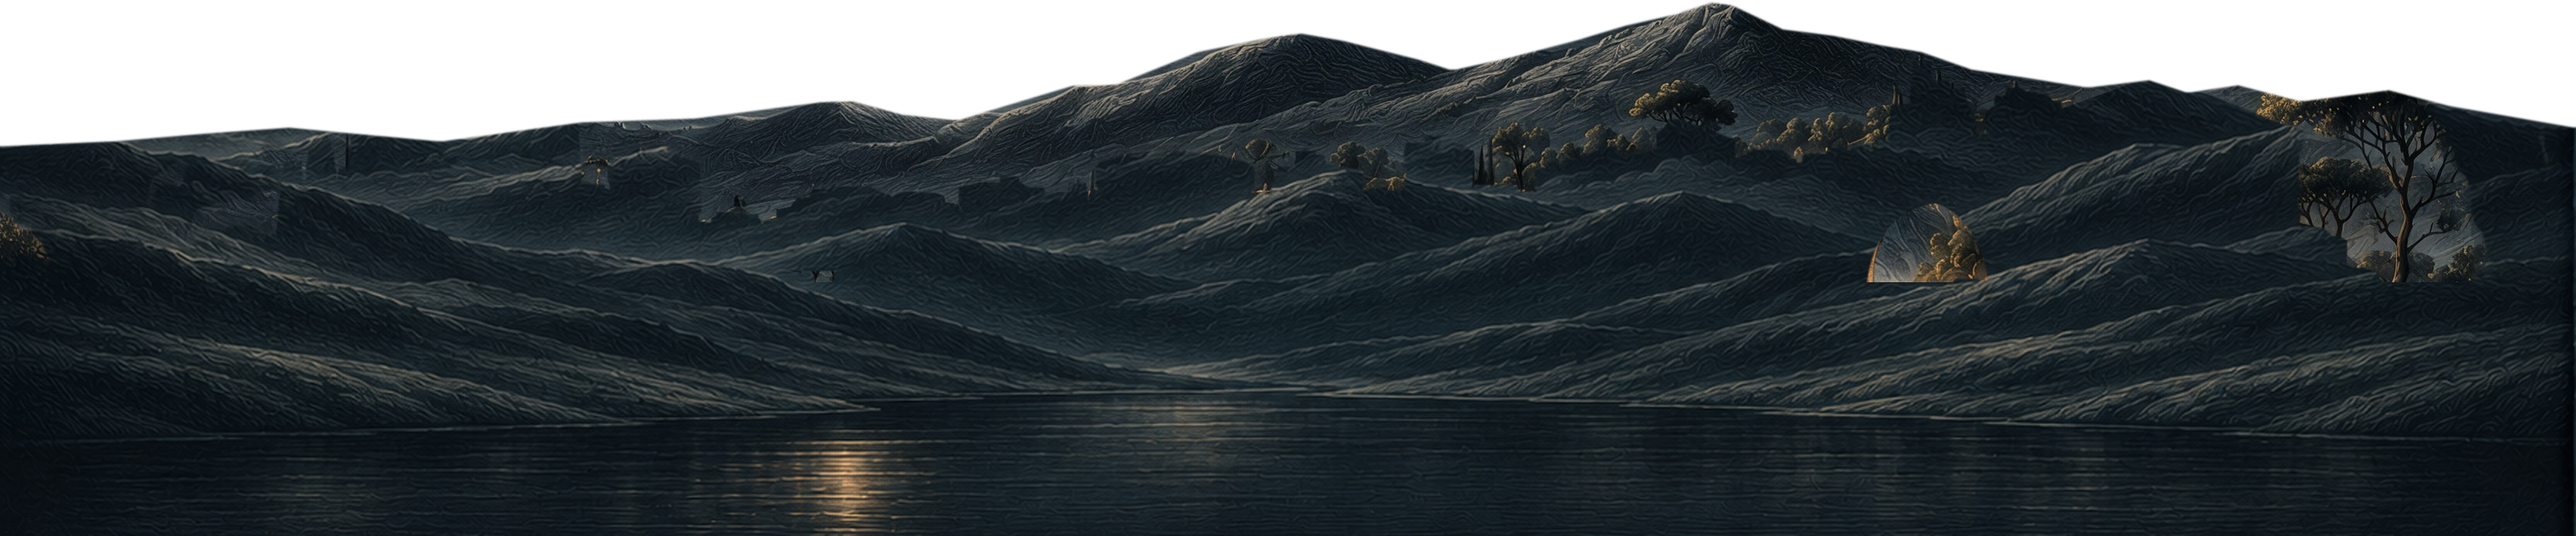
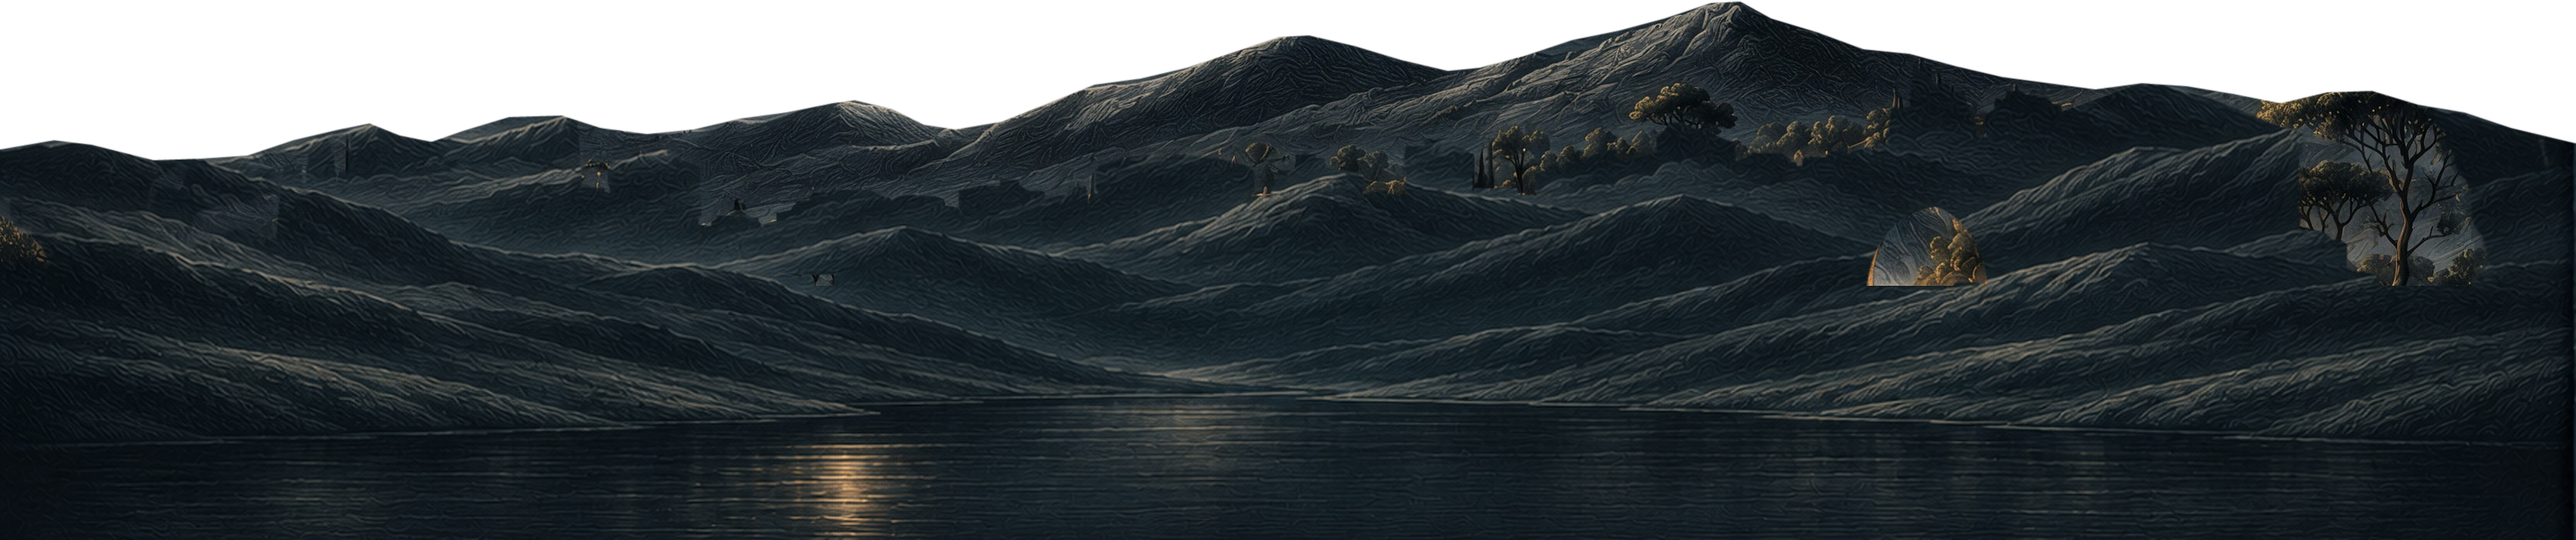
Separate near island, repair contours and deepen continuous camera transitions

diff --git a/world/index.html b/world/index.html
@@ -1,3 +1,3 @@
-<!doctype html><html lang="en" data-light="night"><head><script>(()=>{const compact=matchMedia('(max-width:760px)');function adapt(){if(compact.matches)location.replace(new URL('../'+location.hash,location.href).href);}adapt();compact.addEventListener('change',adapt);})();</script><meta charset="UTF-8"><meta name="viewport" content="width=device-width,initial-scale=1"><meta name="theme-color" content="#101619"><title>Alkymia — Immersive World Study</title><link rel="icon" href="../favicon.svg" type="image/svg+xml"><link rel="stylesheet" href="../style.css?v=layout-v2"><link rel="stylesheet" href="world.css?v=tree-edge-guard-v1"><script type="module" src="world.js?v=tree-edge-guard-v1"></script><link rel="canonical" href="https://mvisl.github.io/alkymia/world/"><script>(()=>{const address=new URL(location.href);if(address.searchParams.has('v')){address.searchParams.delete('v');history.replaceState(history.state,'',address.pathname+address.search+address.hash);}})();</script><link rel="stylesheet" href="intro.css?v=6"><script type="module" src="intro.js?v=6"></script><script type="module" src="depth.js?v=tree-edge-guard-v1"></script><link rel="stylesheet" href="depth.css?v=tree-edge-guard-v1"></head><body class="world-study"><section class="genesis" aria-label="The beginning of Alkymia"><button class="genesis-skip">Skip intro ↗</button><svg class="genesis-word" viewBox="0 0 450 52" role="img" aria-label="Alkymia"><use href="../assets/alkymia-wordmark.svg#wordmark"/></svg><button class="genesis-vessel" aria-label="Enter the world of Alkymia"><img src="../assets/intro-vessel.png" alt="A small glass alchemical vessel, filled with light"><span class="genesis-enter"><svg viewBox="0 0 721 52" aria-hidden="true"><use href="../assets/enter-the-world.svg#lettering"/></svg><span class="sr-only">Enter the world</span></span></button></section><button class="world-motion" aria-pressed="false" aria-label="Pause landscape motion">Pause motion</button><button class="genesis-replay" aria-label="Replay the introduction">The beginning ↺</button><a class="skip" href="#world-navigation">Skip to the places</a><header class="world-header"><a class="world-brand" href="../" aria-label="Alkymia home"><svg class="brand-mark" viewBox="0 0 450 52" aria-hidden="true" focusable="false"><use href="../assets/alkymia-wordmark.svg#wordmark"/></svg></a><a class="back-study" href="../">Original view ↗</a></header><div class="lighting-controls world-lighting" role="group" aria-label="Landscape lighting"><div class="lighting-track"><span class="lighting-indicator" aria-hidden="true"></span><button data-light-choice="day" aria-label="Day" title="Day" aria-pressed="false"><svg viewBox="0 0 24 24" aria-hidden="true"><circle cx="12" cy="12" r="4"/><path d="M12 2v2M12 20v2M2 12h2M20 12h2M4.9 4.9l1.4 1.4M17.7 17.7l1.4 1.4M19.1 4.9l-1.4 1.4M6.3 17.7l-1.4 1.4"/></svg><span class="light-tooltip" aria-hidden="true">Day</span></button><button data-light-choice="sunset" aria-label="Sunset" title="Sunset" aria-pressed="false"><svg viewBox="0 0 24 24" aria-hidden="true"><path d="M3 15.5h18M5 19h14M7 15a5 5 0 0 1 10 0M12 3v3M4.5 7.5l2 2M19.5 7.5l-2 2"/></svg><span class="light-tooltip" aria-hidden="true">Sunset</span></button><button data-light-choice="night" aria-label="Night" title="Night" aria-pressed="true"><svg viewBox="0 0 24 24" aria-hidden="true"><path d="M19.6 15.2A8 8 0 0 1 8.8 4.4 8.1 8.1 0 1 0 19.6 15.2Z"/><path class="star" d="M17.5 3v4M15.5 5h4"/></svg><span class="light-tooltip" aria-hidden="true">Night</span></button></div></div>
+<!doctype html><html lang="en" data-light="night"><head><script>(()=>{const compact=matchMedia('(max-width:760px)');function adapt(){if(compact.matches)location.replace(new URL('../'+location.hash,location.href).href);}adapt();compact.addEventListener('change',adapt);})();</script><meta charset="UTF-8"><meta name="viewport" content="width=device-width,initial-scale=1"><meta name="theme-color" content="#101619"><title>Alkymia — Immersive World Study</title><link rel="icon" href="../favicon.svg" type="image/svg+xml"><link rel="stylesheet" href="../style.css?v=layout-v2"><link rel="stylesheet" href="world.css?v=contour-depth-v5"><script type="module" src="world.js?v=contour-depth-v5"></script><link rel="canonical" href="https://mvisl.github.io/alkymia/world/"><script>(()=>{const address=new URL(location.href);if(address.searchParams.has('v')){address.searchParams.delete('v');history.replaceState(history.state,'',address.pathname+address.search+address.hash);}})();</script><link rel="stylesheet" href="intro.css?v=6"><script type="module" src="intro.js?v=6"></script><script type="module" src="depth.js?v=contour-depth-v5"></script><link rel="stylesheet" href="depth.css?v=contour-depth-v5"></head><body class="world-study"><section class="genesis" aria-label="The beginning of Alkymia"><button class="genesis-skip">Skip intro ↗</button><svg class="genesis-word" viewBox="0 0 450 52" role="img" aria-label="Alkymia"><use href="../assets/alkymia-wordmark.svg#wordmark"/></svg><button class="genesis-vessel" aria-label="Enter the world of Alkymia"><img src="../assets/intro-vessel.png" alt="A small glass alchemical vessel, filled with light"><span class="genesis-enter"><svg viewBox="0 0 721 52" aria-hidden="true"><use href="../assets/enter-the-world.svg#lettering"/></svg><span class="sr-only">Enter the world</span></span></button></section><button class="world-motion" aria-pressed="false" aria-label="Pause landscape motion">Pause motion</button><button class="genesis-replay" aria-label="Replay the introduction">The beginning ↺</button><a class="skip" href="#world-navigation">Skip to the places</a><header class="world-header"><a class="world-brand" href="../" aria-label="Alkymia home"><svg class="brand-mark" viewBox="0 0 450 52" aria-hidden="true" focusable="false"><use href="../assets/alkymia-wordmark.svg#wordmark"/></svg></a><a class="back-study" href="../">Original view ↗</a></header><div class="lighting-controls world-lighting" role="group" aria-label="Landscape lighting"><div class="lighting-track"><span class="lighting-indicator" aria-hidden="true"></span><button data-light-choice="day" aria-label="Day" title="Day" aria-pressed="false"><svg viewBox="0 0 24 24" aria-hidden="true"><circle cx="12" cy="12" r="4"/><path d="M12 2v2M12 20v2M2 12h2M20 12h2M4.9 4.9l1.4 1.4M17.7 17.7l1.4 1.4M19.1 4.9l-1.4 1.4M6.3 17.7l-1.4 1.4"/></svg><span class="light-tooltip" aria-hidden="true">Day</span></button><button data-light-choice="sunset" aria-label="Sunset" title="Sunset" aria-pressed="false"><svg viewBox="0 0 24 24" aria-hidden="true"><path d="M3 15.5h18M5 19h14M7 15a5 5 0 0 1 10 0M12 3v3M4.5 7.5l2 2M19.5 7.5l-2 2"/></svg><span class="light-tooltip" aria-hidden="true">Sunset</span></button><button data-light-choice="night" aria-label="Night" title="Night" aria-pressed="true"><svg viewBox="0 0 24 24" aria-hidden="true"><path d="M19.6 15.2A8 8 0 0 1 8.8 4.4 8.1 8.1 0 1 0 19.6 15.2Z"/><path class="star" d="M17.5 3v4M15.5 5h4"/></svg><span class="light-tooltip" aria-hidden="true">Night</span></button></div></div>
 <main><h1 class="sr-only">Explore the world of Alkymia</h1><div class="scene-shell"><div class="world-window" tabindex="0" aria-label="Panoramic landscape. Scroll horizontally or use the view arrows to explore."><div class="world-canvas"><svg viewBox="0 80 1672 435" preserveAspectRatio="none" role="img" aria-label="A living engraving of a river, tower, aquarium, palace and bridge"><image class="light-layer light-day" href="../assets/world-day.png" width="1672" height="941" preserveAspectRatio="none"/><image class="light-layer light-sunset" href="../assets/world-sunset.png" width="1672" height="941" preserveAspectRatio="none"/></svg><div class="depth-scene light-layer light-night" role="img" aria-label="The layered night landscape of Alkymia"><div class="depth-plane" data-plane="base"><img src="layers/base.webp" alt="" width="3344" height="870" decoding="async" draggable="false" style="left:0.0000000%;top:0.0000000%;width:100.0000000%;height:100.0000000%"></div><div class="depth-plane" data-plane="sky"><img src="layers/sky.webp" alt="" width="3344" height="240" decoding="async" draggable="false" style="left:0.0000000%;top:0.0000000%;width:100.0000000%;height:27.5862069%"></div><div class="depth-plane" data-plane="city"><img src="layers/city.webp" alt="" width="3344" height="870" decoding="async" draggable="false" style="left:0.0000000%;top:0.0000000%;width:100.0000000%;height:100.0000000%"></div><div class="depth-plane" data-plane="water"><img src="layers/water.webp" alt="" width="1760" height="148" decoding="async" draggable="false" style="left:33.1937799%;top:82.9885057%;width:52.6315789%;height:17.0114943%"></div><div class="depth-plane" data-plane="landmarks"><img src="layers/landmarks.webp" alt="" width="3210" height="870" decoding="async" draggable="false" style="left:0.0000000%;top:0.0000000%;width:95.9928230%;height:100.0000000%"></div><div class="depth-plane" data-plane="left-bank"><img src="layers/left-bank.webp" alt="" width="2550" height="862" decoding="async" draggable="false" style="left:5.9808612%;top:0.9195402%;width:76.2559809%;height:99.0804598%"></div><div class="depth-plane" data-plane="right-bank"><img src="layers/right-bank.webp" alt="" width="2564" height="860" decoding="async" draggable="false" style="left:18.7799043%;top:1.1494253%;width:76.6746411%;height:98.8505747%"></div><div class="depth-plane" data-plane="left-tree"><img src="layers/left-tree.webp" alt="" width="486" height="870" decoding="async" draggable="false" style="left:0.0000000%;top:0.0000000%;width:14.5334928%;height:100.0000000%"></div><div class="depth-plane" data-plane="right-tree"><img src="layers/right-tree.webp" alt="" width="3004" height="870" decoding="async" draggable="false" style="left:10.1674641%;top:0.0000000%;width:89.8325359%;height:100.0000000%"></div></div><svg class="world-dimmer" viewBox="0 80 1672 435" preserveAspectRatio="none" aria-hidden="true"><defs><filter id="focus-soften" x="-10%" y="-10%" width="120%" height="120%"><feGaussianBlur stdDeviation="4"/></filter><mask id="focus-cutout" maskUnits="userSpaceOnUse" x="0" y="80" width="1672" height="435"><rect x="0" y="80" width="1672" height="435" fill="white"/><path id="focus-silhouette" fill="black" fill-rule="evenodd" filter="url(#focus-soften)"/></mask></defs><rect x="0" y="80" width="1672" height="435" fill="var(--surround)" mask="url(#focus-cutout)"/></svg><div id="world-landmarks"></div></div></div></div><div class="pan-controls"><button data-pan="-1" aria-label="Explore to the left">←</button><p>Drag to explore <span>·</span> Select a landmark</p><button data-pan="1" aria-label="Explore to the right">→</button></div><nav id="world-navigation" aria-label="The five places"></nav></main><dialog id="space-dialog" aria-labelledby="space-title"><div class="dialog-shell"><button class="close" aria-label="Close this space">Close <span aria-hidden="true">×</span></button><div id="space-content"></div><nav class="space-navigation" aria-label="Other places"></nav></div></dialog>
 </body></html>

diff --git a/world/world.js b/world/world.js
@@ -1,7 +1,6 @@
 import {spaces} from '../scene.js';
-import {cycle} from './camera-geometry.mjs?v=tree-edge-guard-v1';
 // Canonical panorama coordinates drive HTML navigation and the night renderer.
-// Native input, automatic drift and focus flights share one camera.
+// Native input and focus flights share one camera; ambient depth is decorative.
 const stage=document.querySelector('.world-window');
 const canvas=document.querySelector('.world-canvas');
 const boxes={passage:[22,46,11,32],tower:[15,4,9,52],aquarium:[41,38,10,32],palace:[77,26,14,48],bridge:[53,55,24,25]};
@@ -10,12 +9,11 @@ links.innerHTML=spaces.filter(s=>s.id!=='passage').map(s=>{const [x,y,w,h]=boxes
 document.querySelector('#world-navigation').innerHTML=spaces.map(s=>`<a href="#${s.id}"><span>${s.label}</span><small>${s.name}</small></a>`).join('');
 const reduced=matchMedia('(prefers-reduced-motion:reduce)');
 const camera={center:.5,zoom:1};let cameraFrame=0,panVelocity=0,panTarget=.5,lastCameraTime=0;
-let zoomTrack={from:1,to:1,start:0,duration:5000};
-let drift=false,driftSeconds=0,driftBase={center:.5,zoom:1},landscapePaused=false;
+let zoomTarget=1,zoomVelocity=0;
+let landscapePaused=false;
 const motionButton=document.querySelector('.world-motion');
 function motionLabel(){motionButton.textContent=landscapePaused?'Resume motion':'Pause motion';motionButton.setAttribute('aria-pressed',String(landscapePaused));motionButton.setAttribute('aria-label',motionButton.textContent+' in the landscape');document.body.dataset.motionPaused=String(landscapePaused);}
-function stopDrift(){if(drift){drift=false;panTarget=camera.center;panVelocity=0;zoomTrack={from:camera.zoom,to:camera.zoom,start:performance.now(),duration:1};motionLabel();}}
-function startDrift(){if(reduced.matches||document.documentElement.dataset.light!=='night'||!document.querySelector('.genesis').hidden)return;landscapePaused=false;drift=true;driftBase={...camera};driftSeconds=0;motionLabel();if(!cameraFrame){lastCameraTime=performance.now();cameraFrame=requestAnimationFrame(cameraStep);}}
+function returnToWideView(){if(reduced.matches||document.documentElement.dataset.light!=='night'||!document.querySelector('.genesis').hidden)return;landscapePaused=false;motionLabel();moveCamera(camera.center,1,true);}
 let manualControl=false,lastWheelAt=-Infinity,pointerPosition=null,lastPhysicalMoveAt=0;
 function syncCameraFromScroll(){
  const width=canvas.clientWidth;if(!width)return;
@@ -23,10 +21,10 @@ function syncCameraFromScroll(){
  panTarget=camera.center;
 }
 function takeManualControl(){
- stopDrift();manualControl=true;clearTimeout(focusTimer);clearTimeout(clearTimer);
- cancelAnimationFrame(cameraFrame);cameraFrame=0;panVelocity=0;
+ manualControl=true;clearTimeout(focusTimer);clearTimeout(clearTimer);
+ cancelAnimationFrame(cameraFrame);cameraFrame=0;panVelocity=0;zoomVelocity=0;
  syncCameraFromScroll();
- zoomTrack={from:camera.zoom,to:camera.zoom,start:performance.now(),duration:1};
+ zoomTarget=camera.zoom;
  delete canvas.dataset.active;document.querySelectorAll('.is-emphasized').forEach(e=>e.classList.remove('is-emphasized'));
 }
 
@@ -48,7 +46,6 @@ function drawCamera(){
 }
 function cameraStep(now){
  const dt=Math.min(.05,Math.max(0,(now-lastCameraTime)/1000));lastCameraTime=now;
- if(drift){if(document.hidden||!document.querySelector('.genesis').hidden||document.documentElement.dataset.light!=='night'){cameraFrame=0;return;}driftSeconds=(driftSeconds+dt)%20;const u=cycle(driftSeconds);camera.center=driftBase.center+u*12/1672;camera.zoom=Math.min(1.08,driftBase.zoom*(1+.025*u));drawCamera();cameraFrame=drift?requestAnimationFrame(cameraStep):0;return;}
  const count=Math.max(1,Math.ceil(dt/(1/120))),h=dt/count;
  // Critically damped horizontal motion keeps velocity when the target changes.
  // Speed and acceleration are bounded in viewport widths, not image widths.
@@ -58,24 +55,24 @@ function cameraStep(now){
   panVelocity=Math.max(-maxSpeed,Math.min(maxSpeed,panVelocity+acceleration*h));
   camera.center+=panVelocity*h;
  }
- const t=Math.min(1,(now-zoomTrack.start)/zoomTrack.duration);
- let ease;
- if(zoomTrack.to>zoomTrack.from){
-  // Zero initial velocity, ~69% of the approach after 1s, then a long quiet tail.
-  const x=12*t;ease=(1-(1+x)*Math.exp(-x))/(1-13*Math.exp(-12));
- }else ease=t*t*t*(t*(t*6-15)+10);
- camera.zoom=zoomTrack.from+(zoomTrack.to-zoomTrack.from)*ease;
+ // One damped zoom trajectory retains velocity across retargets. Switching
+ // sections never restarts an ease from zero or briefly targets the wide view.
+ for(let n=0;n<count;n++){
+  zoomVelocity+=(5.76*(zoomTarget-camera.zoom)-4.8*zoomVelocity)*h;
+  camera.zoom+=zoomVelocity*h;
+ }
+ const zoomSettled=Math.abs(zoomTarget-camera.zoom)<.000005&&Math.abs(zoomVelocity)<.000005;
+ if(zoomSettled){camera.zoom=zoomTarget;zoomVelocity=0;}
  const settled=Math.abs(panTarget-camera.center)*canvas.clientWidth<.12&&Math.abs(panVelocity)*canvas.clientWidth<.15;
  if(settled){camera.center=panTarget;panVelocity=0;}
  drawCamera();
- if(!settled||t<1)cameraFrame=requestAnimationFrame(cameraStep);else cameraFrame=0;
+ if(!settled||!zoomSettled)cameraFrame=requestAnimationFrame(cameraStep);else cameraFrame=0;
 }
-function moveCamera(center,zoom=1,animate=true,duration=5000){
- stopDrift();
+function moveCamera(center,zoom=1,animate=true){
  if(!Number.isFinite(center)||!Number.isFinite(zoom))return;
- center=Math.max(0,Math.min(1,center));zoom=Math.max(1,Math.min(1.08,zoom));panTarget=center;
- if(!animate||reduced.matches){cancelAnimationFrame(cameraFrame);cameraFrame=0;panVelocity=0;camera.center=center;camera.zoom=1;zoomTrack={from:1,to:1,start:0,duration:1};drawCamera();return;}
- if(zoom!==zoomTrack.to)zoomTrack={from:camera.zoom,to:zoom,start:performance.now(),duration};
+ center=Math.max(0,Math.min(1,center));zoom=Math.max(1,Math.min(1.14,zoom));panTarget=center;
+ if(!animate||reduced.matches){cancelAnimationFrame(cameraFrame);cameraFrame=0;panVelocity=0;zoomVelocity=0;camera.center=center;camera.zoom=1;zoomTarget=1;drawCamera();return;}
+ zoomTarget=zoom;
  if(!cameraFrame){lastCameraTime=performance.now();cameraFrame=requestAnimationFrame(cameraStep);}
 }
 function frameSpace(s,animate=true,zoom=1){
@@ -141,18 +138,18 @@ const navigation=document.querySelector('#world-navigation');
 let focusTimer,clearTimer;
 function emphasize(id,pan=false){
  if(manualControl||drag)return;
- stopDrift();clearTimeout(clearTimer);
+ clearTimeout(clearTimer);
  const s=spaces.find(s=>s.id===id);if(!s)return;
  if(id==='passage'){release();return;}
  silhouette.setAttribute('d',silhouettes[id]);canvas.dataset.active=id;
  navigation.querySelectorAll('a').forEach(a=>a.classList.toggle('is-emphasized',a.hash==='#'+id));
  links.querySelectorAll('a').forEach(a=>a.classList.toggle('is-emphasized',a.hash==='#'+id));
- if(pan)frameSpace(s,true,1.045);else if(camera.zoom>1)moveCamera(camera.center,1,true,2200);
+ if(pan)frameSpace(s,true,1.09);else moveCamera(panTarget,1.09,true);
 }
 function release(){
  clearTimeout(focusTimer);clearTimeout(clearTimer);
  if(manualControl||drag)return;
- clearTimer=setTimeout(()=>{delete canvas.dataset.active;document.querySelectorAll('.is-emphasized').forEach(e=>e.classList.remove('is-emphasized'));moveCamera(panTarget,1,true,2200);},180);
+ clearTimer=setTimeout(()=>{delete canvas.dataset.active;document.querySelectorAll('.is-emphasized').forEach(e=>e.classList.remove('is-emphasized'));moveCamera(panTarget,1,true);},320);
 }
 for(const a of navigation.querySelectorAll('a')){
  a.addEventListener('pointerenter',e=>{if(e.pointerType!=='mouse'||manualControl||drag)return;clearTimeout(focusTimer);clearTimeout(clearTimer);focusTimer=setTimeout(()=>emphasize(a.hash.slice(1),true),140);});
@@ -167,11 +164,11 @@ dialog.addEventListener('close',release);
 
 reduced.addEventListener('change',()=>{if(reduced.matches)moveCamera(camera.center,1,false);});
 
-// Automatic movement shares the same camera as manual navigation.
-motionButton.addEventListener('click',()=>{if(!landscapePaused){stopDrift();cancelAnimationFrame(cameraFrame);cameraFrame=0;landscapePaused=true;motionLabel();}else{landscapePaused=false;motionLabel();startDrift();}});
+// Pause freezes both the focus camera and decorative depth movement.
+motionButton.addEventListener('click',()=>{if(!landscapePaused){cancelAnimationFrame(cameraFrame);cameraFrame=0;panVelocity=0;zoomVelocity=0;landscapePaused=true;motionLabel();}else{landscapePaused=false;motionLabel();returnToWideView();}});
 const genesis=document.querySelector('.genesis');
-new MutationObserver(()=>{if(genesis.hidden)startDrift();else{stopDrift();landscapePaused=true;motionLabel();}}).observe(genesis,{attributes:true,attributeFilter:['hidden']});
-new MutationObserver(()=>{stopDrift();if(document.documentElement.dataset.light==='night'&&!landscapePaused)startDrift();}).observe(document.documentElement,{attributes:true,attributeFilter:['data-light']});
-document.addEventListener('visibilitychange',()=>{lastCameraTime=performance.now();if(!document.hidden&&drift&&!cameraFrame)cameraFrame=requestAnimationFrame(cameraStep);});
-reduced.addEventListener('change',()=>{if(reduced.matches){stopDrift();landscapePaused=true;motionLabel();}});
-motionLabel();if(genesis.hidden&&!location.hash)startDrift();
+new MutationObserver(()=>{if(genesis.hidden)returnToWideView();else{cancelAnimationFrame(cameraFrame);cameraFrame=0;panVelocity=0;zoomVelocity=0;landscapePaused=true;motionLabel();}}).observe(genesis,{attributes:true,attributeFilter:['hidden']});
+new MutationObserver(()=>{if(document.documentElement.dataset.light==='night'&&!landscapePaused)returnToWideView();}).observe(document.documentElement,{attributes:true,attributeFilter:['data-light']});
+document.addEventListener('visibilitychange',()=>{lastCameraTime=performance.now();});
+reduced.addEventListener('change',()=>{if(reduced.matches){landscapePaused=true;motionLabel();}});
+motionLabel();if(genesis.hidden&&!location.hash)returnToWideView();

diff --git a/world/depth.js b/world/depth.js
@@ -1,10 +1,10 @@
 import {Application,Container,Sprite,Texture,MeshPlane} from '../vendor/pixi-8.22.0/pixi.min.mjs';
-import {WIDTH,HEIGHT,layerPose} from './camera-geometry.mjs?v=tree-edge-guard-v1';
-import {ambientCamera,ripplePoint} from './ambient-motion.mjs?v=tree-edge-guard-v1';
+import {WIDTH,HEIGHT,layerPose} from './camera-geometry.mjs?v=contour-depth-v5';
+import {ambientCamera,ripplePoint} from './ambient-motion.mjs?v=contour-depth-v5';
 const stage=document.querySelector('.world-window'),shell=document.querySelector('.scene-shell'),canvas=document.querySelector('.world-canvas'),intro=document.querySelector('.genesis');
 const reduced=matchMedia('(prefers-reduced-motion:reduce)');
 const host=document.createElement('div');host.className='night-renderer light-layer light-night';host.setAttribute('aria-hidden','true');shell.prepend(host);
-const names=['sky-backdrop','moon-halo','moon','sky-clouds','distant-mountains','city-separated','river','landmarks','left-bank','right-bank','left-tree','right-tree'];
+const names=['sky-backdrop','moon-halo','moon','sky-clouds','distant-mountains','ground-backdrop','city-separated','river','landmarks','island','left-bank','right-bank','left-tree','right-tree'];
 let ready=false,app=null,gpuReady=false,raf=0,last=0,view={width:stage.clientWidth,height:stage.clientHeight},camera={center:.5,zoom:1},pointer={x:0,y:0},target={x:0,y:0},cloudSeconds=0;
 const css={},gpu={};let map,waterMesh,waterRest;
 function canMove(){return !document.hidden&&intro.hidden&&!reduced.matches&&document.body.dataset.motionPaused!=='true'&&document.documentElement.dataset.light==='night'&&!document.querySelector('dialog').open;}
@@ -32,7 +32,7 @@ new MutationObserver(()=>{last=0;schedule();}).observe(document.documentElement,
 document.querySelector('dialog').addEventListener('close',()=>{last=0;schedule();});
 reduced.addEventListener('change',()=>{target=pointer={x:0,y:0};schedule();});document.addEventListener('visibilitychange',()=>{last=0;schedule();});
 try{
- map=await (await fetch('night-layers.json?v=tree-edge-guard-v1')).json();const images={};await Promise.all(names.map(async name=>{const img=new Image();img.src=map[name].url;await img.decode();images[name]=img;const m=map[name],el=document.createElement('div');el.className='night-css-plane';img.alt='';img.draggable=false;img.style.cssText=`left:${m.x}px;top:${m.y}px;width:${m.width}px;height:${m.height}px`;el.append(img);host.append(el);css[name]=el;}));
+ map=await (await fetch('night-layers.json?v=contour-depth-v5')).json();const images={};await Promise.all(names.map(async name=>{const img=new Image();img.src=map[name].url;await img.decode();images[name]=img;const m=map[name],el=document.createElement('div');el.className='night-css-plane';img.alt='';img.draggable=false;img.style.cssText=`left:${m.x}px;top:${m.y}px;width:${m.width}px;height:${m.height}px`;el.append(img);host.append(el);css[name]=el;}));
  // Promise completion order must never determine visual stacking.
  for(const name of names)host.append(css[name]);
  try{app=new Application();await app.init({width:view.width,height:view.height,preference:'webgl',autoStart:false,sharedTicker:false,antialias:false,autoDensity:true,resolution:Math.min(devicePixelRatio||1,2),background:0x0e1518});app.stage.eventMode='none';host.append(app.canvas);
